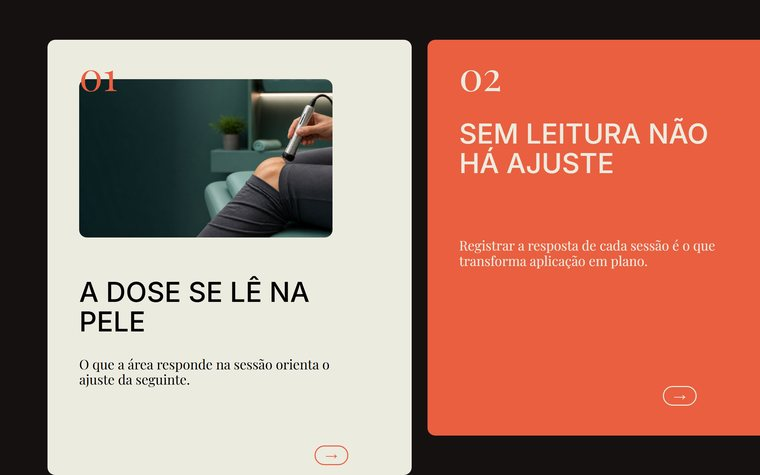
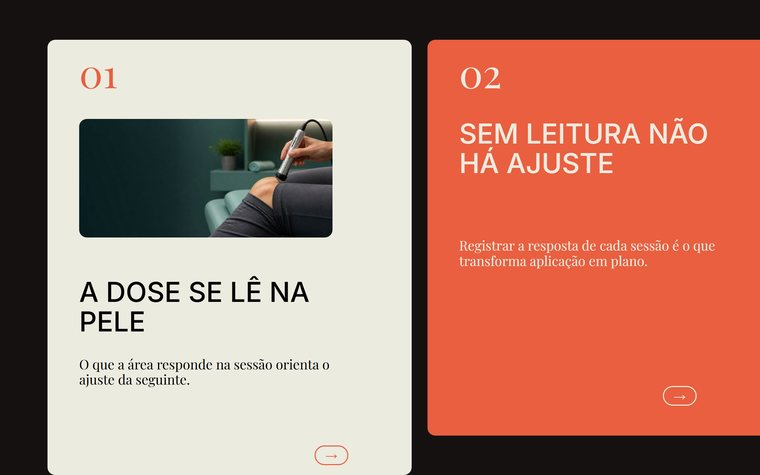
editorial-cards-continuos: numero em faixa exclusiva + 3 bugs nos gates
Gustavo apontou numero sobre foto/headline e foto encostando no rodape. O
gate de margem, criado na volta anterior justamente para isso, nao pegou
nenhum dos dois — fui atras e eram tres bugs distintos:

1. usava `doc` em vez de `document`: a excecao era engolida e o gate morria
   em silencio, sem nunca rejeitar nada.
2. ficava DEPOIS do return do bloco de imagens, entao toda foto escapava — e
   foto era o elemento que eu estava estourando.
3. checava "esta contido no cartao": quem TRANSBORDAVA falhava esse teste e
   era pulado, ou seja a violacao mais grave era a unica que escapava. O
   criterio certo e sobreposicao.

Gate novo: grid-area com row-end > 13 num grid de 12 linhas. Estourei a altura
do cartao duas vezes nesta sessao — o elemento sai do slide e some no render.

Numero agora leva data-corner e tem faixa horizontal exclusiva: nunca divide
linha de grid com foto ou headline. A variacao em retrato ficou intocada (o
Gustavo confirmou que ali esta bom) — nela o numero tem a coluna de texto so
para ele.

Lei nova em knowledge/design/geral.md: gate que nunca foi visto rejeitando e
decoracao. Quebrar um exemplar de proposito e ver a rejeicao sair antes de dar
por pronto.

Changed region(s): [[0.0908, 0.1179, 0.4539, 0.5011], [0.6053, 0.1179, 0.6658, 0.2063]]

diff --git a/engine/convert.js b/engine/convert.js
@@ -204,12 +204,17 @@ const rgb2hex = (c) => {
 
         const base = { id, cls, ...box, angle: angleOf(s), opacity: parseFloat(s.opacity), attrs: attrs(el) };
 
-        if (IMG.has(cls)) {
-          if (el.tagName !== "IMG") { rejects.push({ id, reason: `${cls} deve ser <img>` }); return; }
-          nodes.push({ kind: "img", ...base, src: el.currentSrc || el.src,
-            radiusPx: parseFloat(s.borderTopLeftRadius) || 0, circle: el.hasAttribute("data-circle"),
-            cutout: el.hasAttribute("data-cutout") });
-          return;
+        // GRID-AREA ALÉM DA ÚLTIMA LINHA. O grid tem 12 linhas; declarar
+        // row-end 14 não estica o slide, apenas joga o elemento para fora e ele
+        // some no render. Errei isso duas vezes ao remanejar cartão com foto.
+        {
+          const ga = (el.getAttribute("style") || "").match(
+            /grid-area:\s*(\d+)\s*\/\s*(\d+)\s*\/\s*(\d+)\s*\/\s*(\d+)/);
+          if (ga && +ga[3] > 13) {
+            rejects.push({ id, reason: `grid-area termina na linha ${ga[3]}, mas o `
+              + `grid tem 12 linhas (row-end máximo é 13) — o elemento sai do slide` });
+            return;
+          }
         }
         // ENCOSTOU NA BORDA DO CARTÃO. Conteúdo que toca a borda do cartão que
         // o contém lê como erro de montagem — e num pack com travessia é pior:
@@ -222,9 +227,12 @@ const rgb2hex = (c) => {
           const r = el.getBoundingClientRect();
           for (const card of document.querySelectorAll(".ds-card")) {
             const c = card.getBoundingClientRect();
-            const dentro = r.left >= c.left - 2 && r.right <= c.right + 2
-                        && r.top >= c.top - 2 && r.bottom <= c.bottom + 2;
-            if (!dentro) continue;
+            // o critério é SOBREPOSIÇÃO, não containment: se fosse "contido",
+            // o elemento que transborda o cartão — a violação mais grave —
+            // seria o único a escapar do gate.
+            const sobrepoe = r.left < c.right && r.right > c.left
+                          && r.top < c.bottom && r.bottom > c.top;
+            if (!sobrepoe) continue;
             const MIN = 24;   // margem mínima de leitura, em px
             const folga = { esquerda: r.left - c.left, direita: c.right - r.right,
                             topo: r.top - c.top, base: c.bottom - r.bottom };
@@ -236,6 +244,13 @@ const rgb2hex = (c) => {
               return;
             }
           }
+        }
+        if (IMG.has(cls)) {
+          if (el.tagName !== "IMG") { rejects.push({ id, reason: `${cls} deve ser <img>` }); return; }
+          nodes.push({ kind: "img", ...base, src: el.currentSrc || el.src,
+            radiusPx: parseFloat(s.borderTopLeftRadius) || 0, circle: el.hasAttribute("data-circle"),
+            cutout: el.hasAttribute("data-cutout") });
+          return;
         }
         if (TEXT.has(cls)) {
           // texto que ESTOURA a própria célula: o gate de sobreposição não pega

diff --git a/packs/editorial-cards-continuos/exemplos/ref-miolo-foto-embaixo.html b/packs/editorial-cards-continuos/exemplos/ref-miolo-foto-embaixo.html
@@ -22,22 +22,22 @@
     <!-- CARTÃO: número (2), headline (3-5), apoio (6-7), foto fecha (8-12). -->
     <div class="ds-card" data-el-id="b1" data-half-left data-layer style="grid-area: 2 / 3 / 13 / 14"></div>
     <span class="ds-number" data-el-id="b1n" data-half-left data-static data-layer data-face="serif"
-          data-size="lg" data-inset="top" style="grid-area: 2 / 4 / 3 / 8">01</span>
+          data-size="lg" data-corner data-inset="top" style="grid-area: 2 / 4 / 3 / 8">01</span>
     <h2 class="ds-headline" data-weight="medium" data-el-id="b1h" data-half-left data-layer data-template-element
         data-te-description="tese do cartão" data-te-min-chars="12" data-te-max-chars="30"
-        style="grid-area: 3 / 4 / 5 / 12">O resultado aparece no tecido</h2>
+        style="grid-area: 4 / 4 / 6 / 12">O resultado aparece no tecido</h2>
     <p class="ds-body" data-el-id="b1b" data-half-left data-layer data-face="serif"
        data-template-element data-te-description="apoio"
        data-te-min-chars="30" data-te-max-chars="110"
-       style="grid-area: 6 / 4 / 8 / 12">O que muda entre a primeira e a última sessão não é a sensação — é a resposta.</p>
+       style="grid-area: 7 / 4 / 9 / 12">O que muda entre a primeira e a última sessão não é a sensação — é a resposta.</p>
     <img class="ds-photo" data-el-id="b1p" data-half-left data-static data-layer data-round
-         data-image-type="generated" src="foto-detalhe.jpg" style="grid-area: 9 / 4 / 13 / 12">
+         data-image-type="generated" src="foto-detalhe.jpg" style="grid-area: 9 / 4 / 12 / 12">
 
     <!-- CARTÃO seguinte volta ao registro de texto: variação alterna. -->
     <div class="ds-card" data-el-id="b2" data-half-left data-layer data-variable="primary"
          style="grid-area: 2 / 15 / 12 / 26"></div>
     <span class="ds-number" data-el-id="b2n" data-half-left data-static data-layer data-face="serif"
-          data-size="lg" data-tone="paper" data-inset="top" style="grid-area: 2 / 16 / 3 / 20">02</span>
+          data-size="lg" data-corner data-tone="paper" data-inset="top" style="grid-area: 2 / 16 / 3 / 20">02</span>
     <h2 class="ds-headline" data-weight="medium" data-el-id="b2h" data-half-left data-layer data-tone="paper"
         data-template-element data-te-description="tese do cartão"
         data-te-min-chars="12" data-te-max-chars="34"

diff --git a/packs/editorial-cards-continuos/exemplos/ref-miolo-cartao-com-foto.html b/packs/editorial-cards-continuos/exemplos/ref-miolo-cartao-com-foto.html
@@ -23,9 +23,9 @@
          serifa fina sobre foto some, e a foto tem raio próprio. -->
     <div class="ds-card" data-el-id="f1" data-half-left data-layer style="grid-area: 2 / 3 / 13 / 14"></div>
     <img class="ds-photo" data-el-id="f1p" data-half-left data-static data-layer data-round
-         data-image-type="generated" src="foto-detalhe.jpg" style="grid-area: 3 / 4 / 7 / 12">
+         data-image-type="generated" src="foto-detalhe.jpg" style="grid-area: 4 / 4 / 7 / 12">
     <span class="ds-number" data-el-id="f1n" data-half-left data-static data-layer data-face="serif"
-          data-size="lg" data-inset="top"
+          data-size="lg" data-corner data-inset="top"
           style="grid-area: 2 / 4 / 3 / 8">01</span>
     <h2 class="ds-headline" data-weight="medium" data-el-id="f1h" data-half-left data-layer data-template-element
         data-te-description="tese do cartão" data-te-min-chars="12" data-te-max-chars="30"
@@ -41,7 +41,7 @@
     <div class="ds-card" data-el-id="f2" data-half-left data-layer data-variable="primary"
          style="grid-area: 2 / 15 / 12 / 26"></div>
     <span class="ds-number" data-el-id="f2n" data-half-left data-static data-layer data-face="serif"
-          data-size="lg" data-tone="paper" data-inset="top"
+          data-size="lg" data-corner data-tone="paper" data-inset="top"
           style="grid-area: 2 / 16 / 3 / 20">02</span>
     <h2 class="ds-headline" data-weight="medium" data-el-id="f2h" data-half-left data-layer data-tone="paper"
         data-template-element data-te-description="tese do cartão"

diff --git a/engine/design-system.css b/engine/design-system.css
@@ -261,6 +261,14 @@ img[data-overhang="br"]     { transform: translate(28%, 30%) rotate(-12deg); }
 /* respiro da borda: afasta o elemento da margem sem mudar a celula do grid */
 [data-inset="bottom"] { transform: translateY(-36px); }
 [data-inset="top"]    { transform: translateY(36px); }
+/* numero no canto do cartao: encosta no topo e na esquerda da PROPRIA celula,
+   sem esticar. Na fita-layer o numero e IRMAO do cartao (nao filho), entao
+   position:absolute ancoraria na camada, nao no cartao — a ancoragem tem que
+   ser pelo grid. O que este modificador garante e que ele nao ocupe a celula
+   inteira e va parar no meio dela. */
+.ds-number[data-corner] {
+  place-self: start start; width: auto; line-height: 1;
+}
 
 /* sentence case: desliga o uppercase default (packs de tipografia editorial) */
 [data-case="sentence"] { text-transform: none; }

diff --git a/knowledge/design/geral.md b/knowledge/design/geral.md
@@ -308,3 +308,14 @@ tocam; texto e foto vizinhos pedem uma linha inteira de intervalo.
 
 Gate mecânico em `convert.js` (24px mínimo) — foi preciso um humano apontar duas
 vezes antes de existir.
+
+## O gate tem que ser testado com uma violação de verdade
+
+Gate que nunca foi visto rejeitando é decoração. Três exemplos só desta sessão:
+um usava `doc` em vez de `document` e morria em silêncio; outro ficava DEPOIS
+do `return` do bloco de imagens, então nunca via foto alguma; o terceiro
+checava "está contido no cartão" e por isso deixava passar justamente o
+elemento que TRANSBORDAVA — a violação mais grave era a única que escapava.
+
+Escreva o gate, quebre um exemplar de propósito, veja a rejeição sair com o
+`data-el-id` certo, só então conserte o exemplar.

diff --git a/packs/editorial-cards-continuos/tecnicas.md b/packs/editorial-cards-continuos/tecnicas.md
@@ -149,6 +149,11 @@ A armadilha: o cartão sangra 1 coluna além da emenda, então sua borda direita
 margem de leitura é a borda do cartão **menos a sangria** — para um cartão que
 começa em `ini` e tem 11 colunas, o conteúdo vai de `ini+1` a `ini+9`.
 
+**O número tem faixa horizontal exclusiva** (`data-corner`). Ele nunca divide
+linha de grid com foto ou headline — dividindo, pousa por cima, e número sobre
+outro elemento é erro estético. A exceção é a variação em retrato, onde o
+número tem a coluna de texto só para ele.
+
 **Elementos não se tocam entre si.** Headline e apoio não compartilham linha de
 grid (`4-6` e `7-9`, nunca `4-7` e `7-9` — a linha 7 comum os cola). Texto não
 encosta em foto e vice-versa: deixe uma linha inteira de intervalo.
